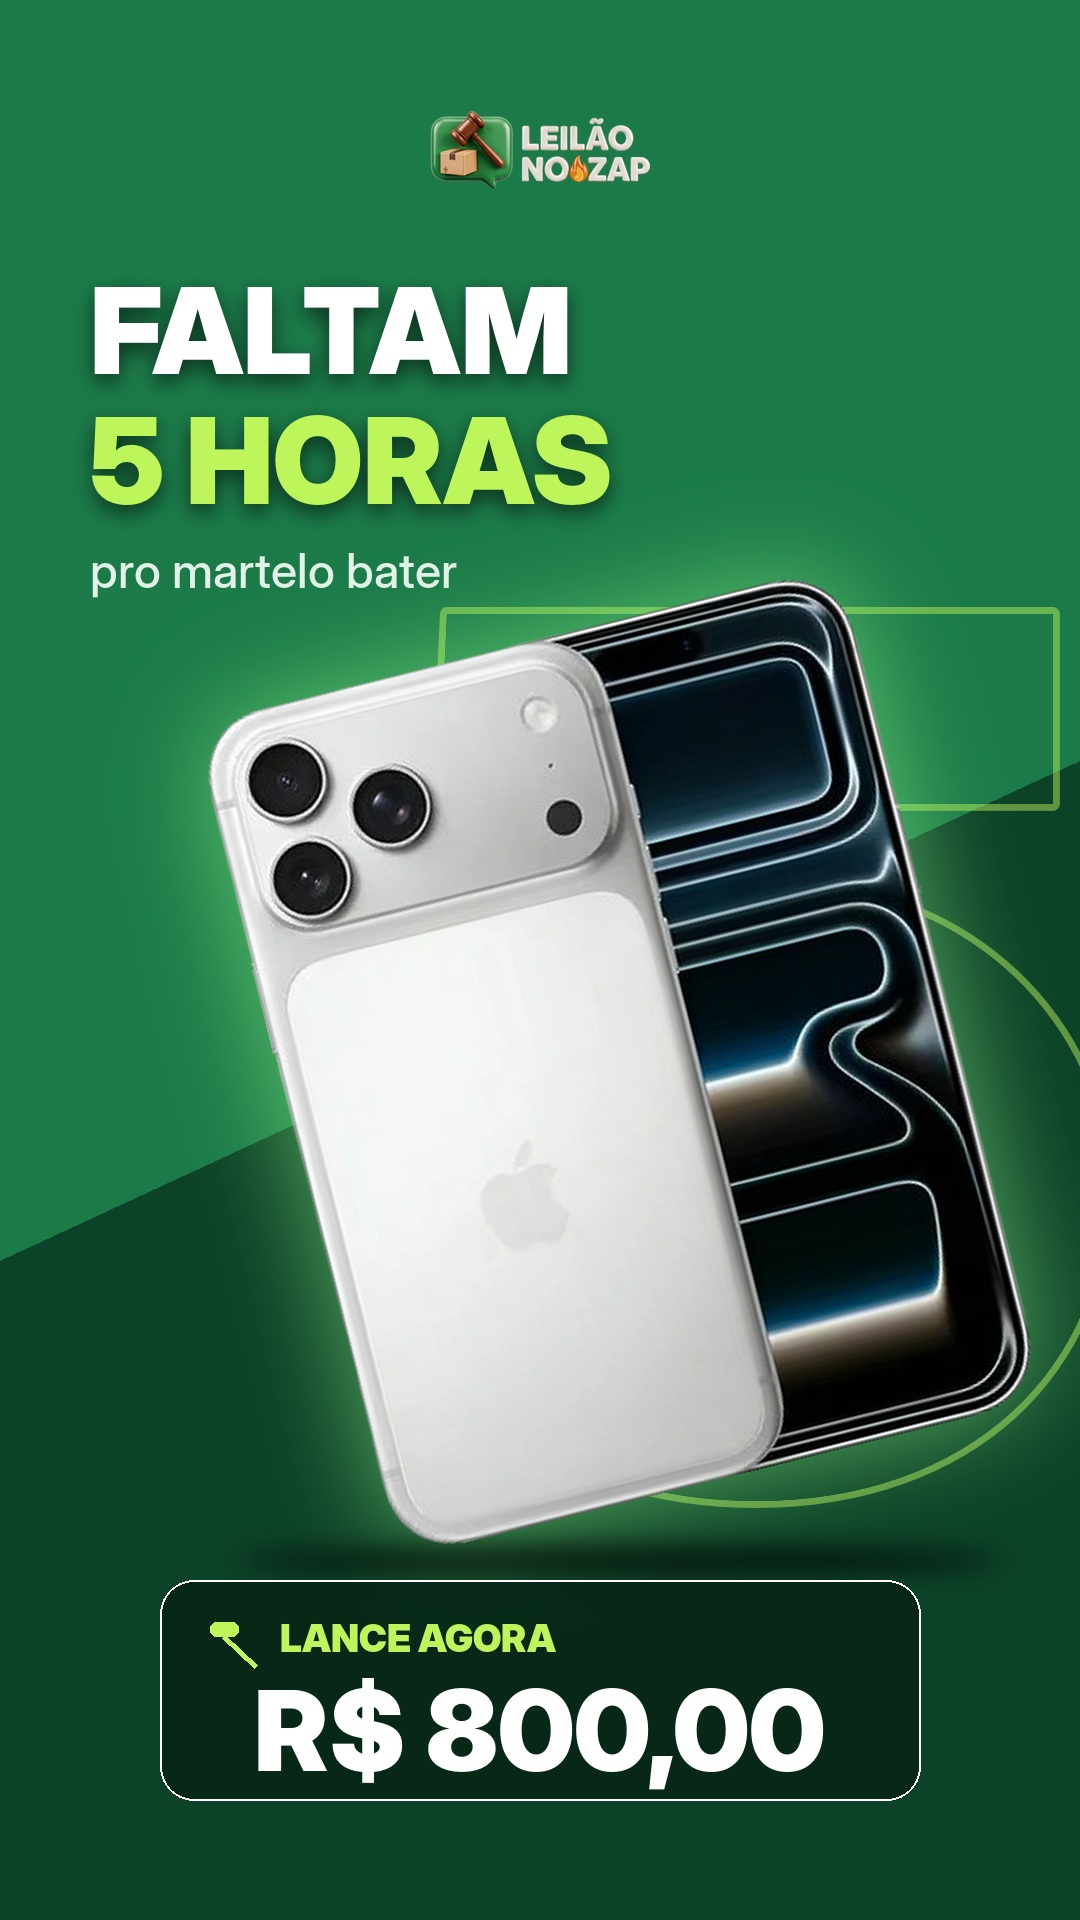
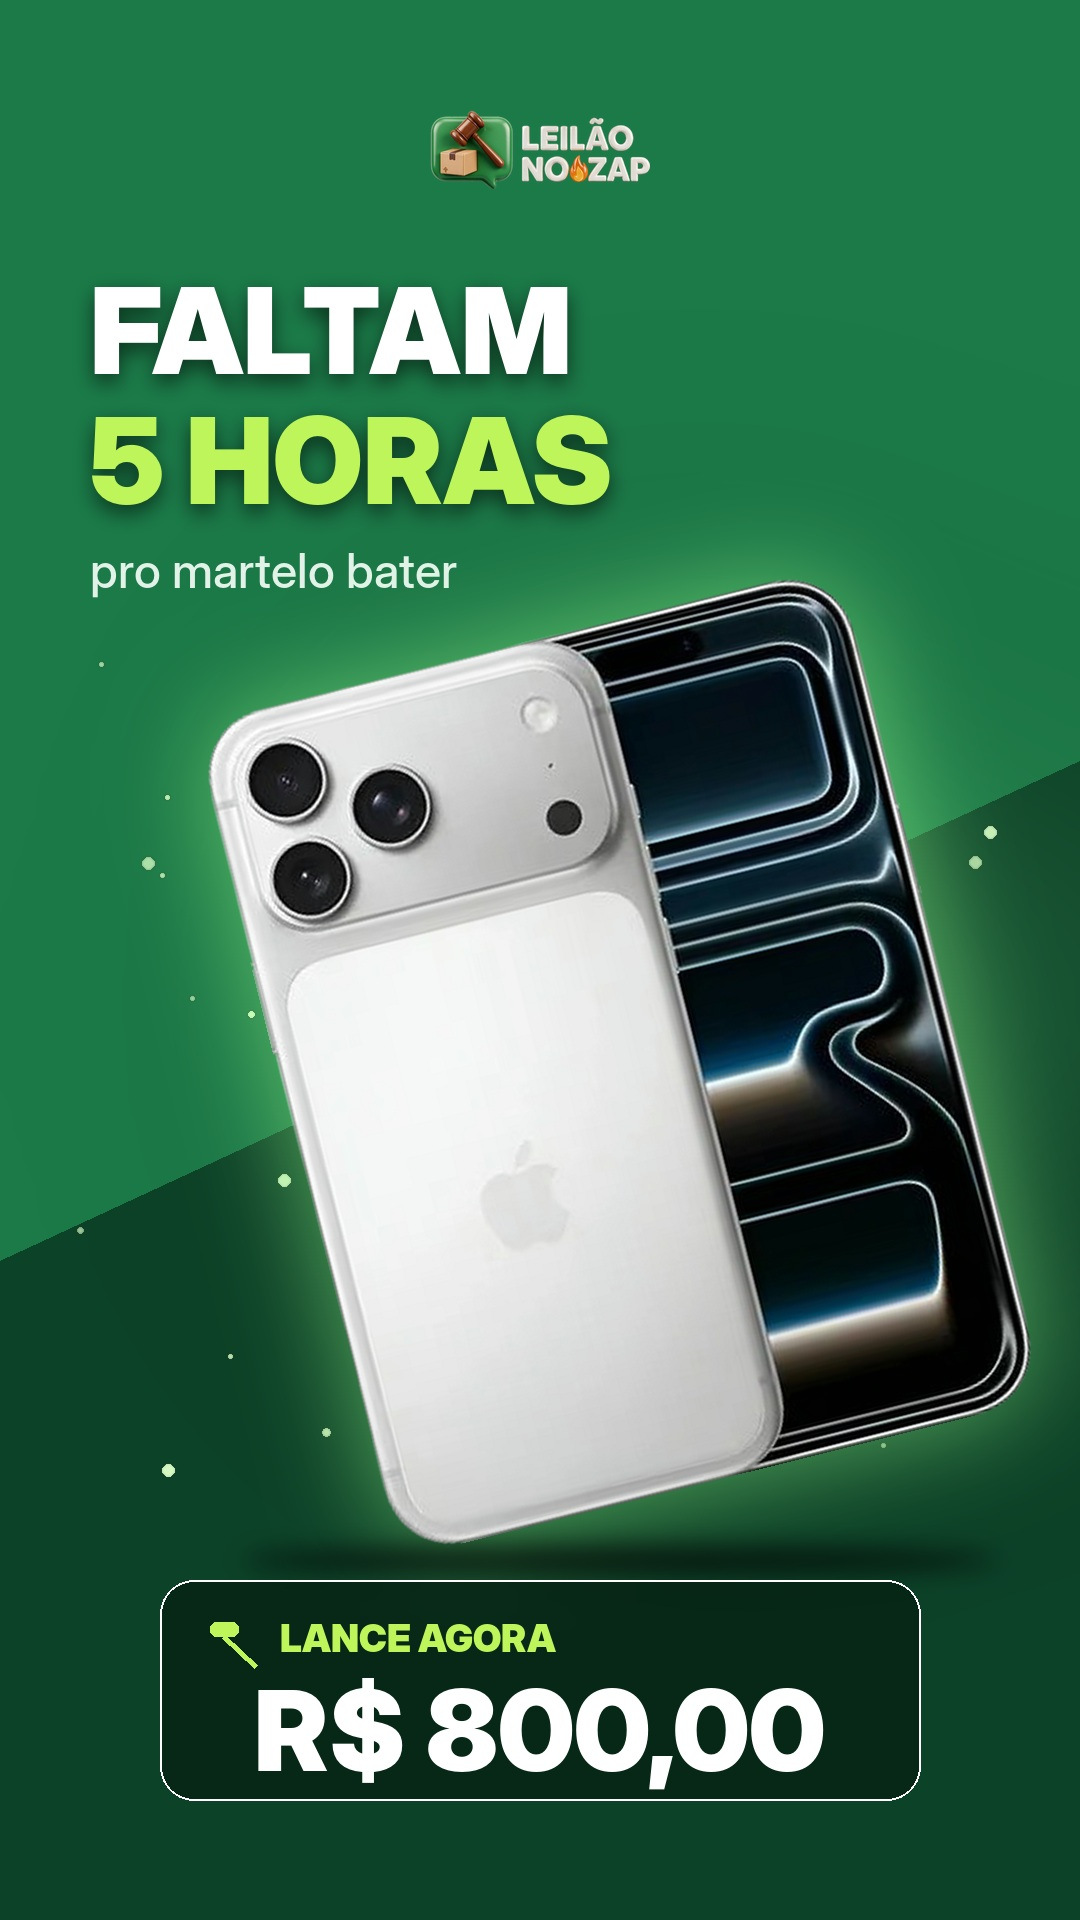
Arte das 15h (Faltam 5 horas) com lance R$ 800 e fundo limpo
Claude-Session: https://claude.ai/code/session_01JihU9VfVTYTrMqQpApFEjH

diff --git a/marketing/semana-2026-10-28/fonte/campanha_iphone.py b/marketing/semana-2026-10-28/fonte/campanha_iphone.py
@@ -137,7 +137,7 @@ def s4():
 # 5 · 15h — FALTAM 5 HORAS: diagonal verde/floresta, "5" vazado gigante, iPhone rompendo a moldura
 def s5():
     b = tela(W, H, FLOR); d = ImageDraw.Draw(b); d.polygon([(0, 0), (W, 0), (W, 760), (0, 1260)], fill=VERDE)
-    vazado(b, (760, 1050), '5', F('Black', 1200), LIMA, 7, alfa=120); logo_(b)
+    luz(b, 700, 1000, 380, (120, 255, 150), 70); brilhos(b, 45, (220, 255, 200), (80, 650, 1000, 1500)); logo_(b)
     T(b, (90, 330), 'FALTAM', F('Black', 120), BR, 'lm'); T(b, (90, 460), '5 HORAS', F('Black', 120), LIMA, 'lm')
     T(b, (90, 570), 'pro martelo bater', F('Medium', 48), MENTA, 'lm', somb=0)
     poe(b, iph(860, 14), 620, 1560, (150, 255, 140), forca=170)
